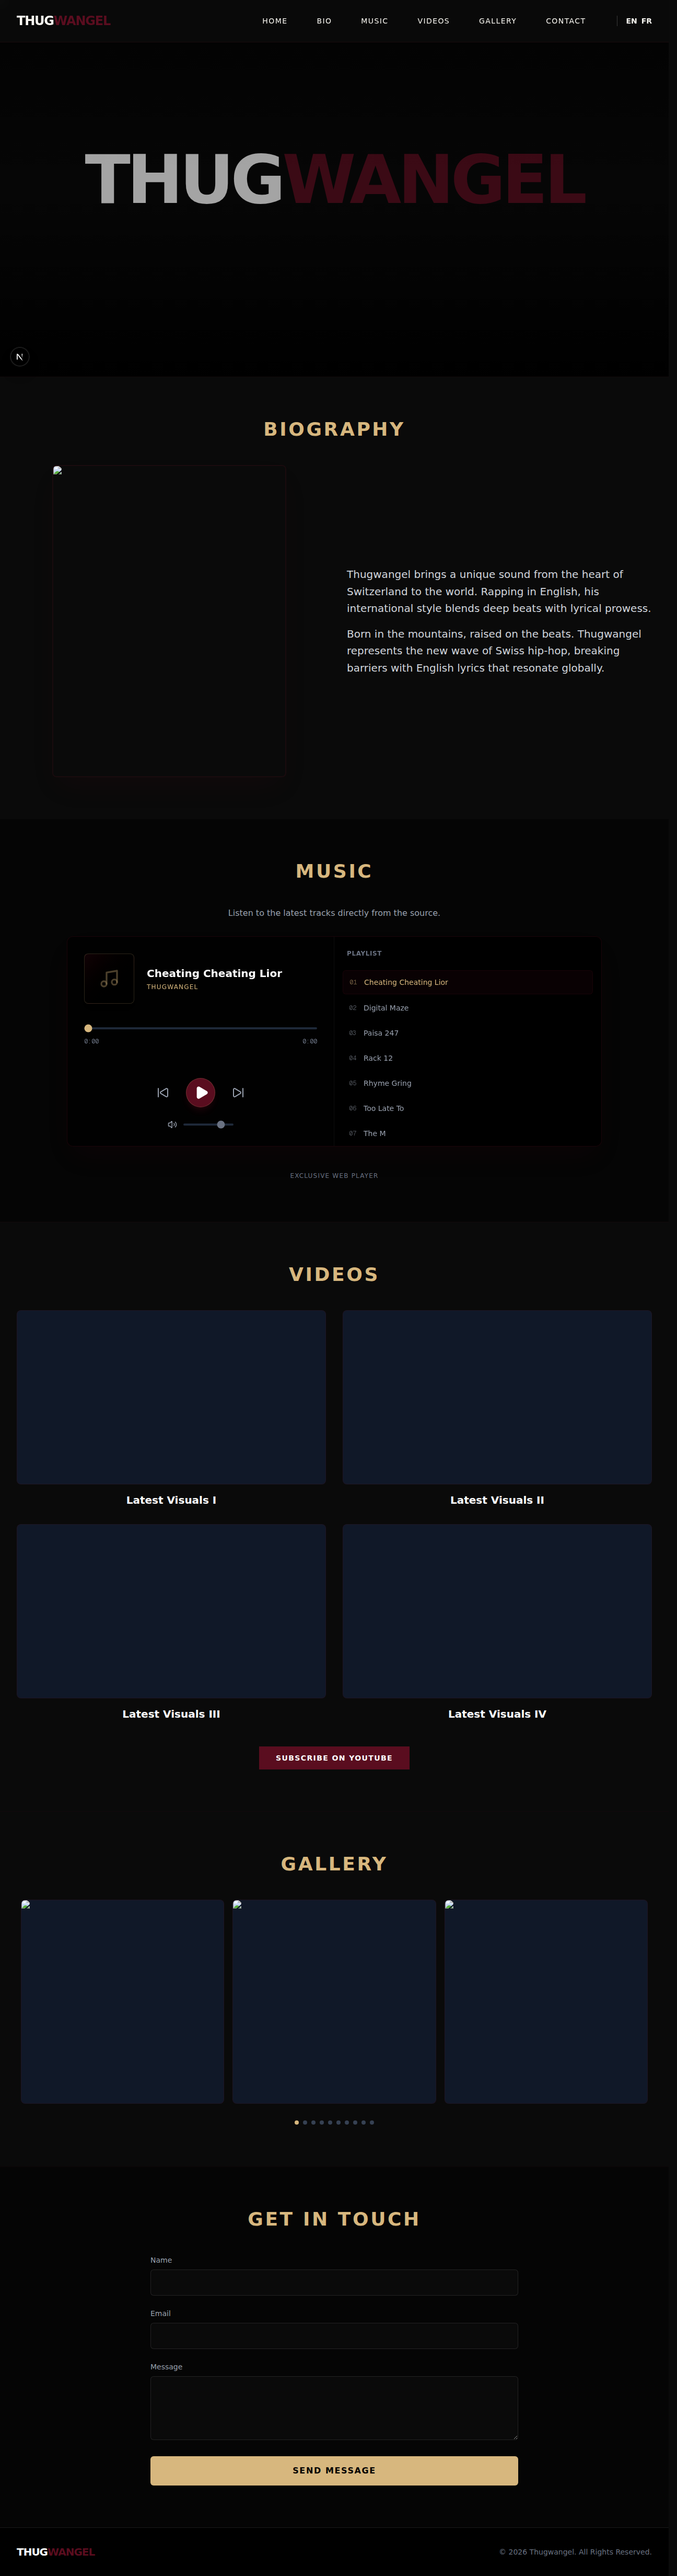
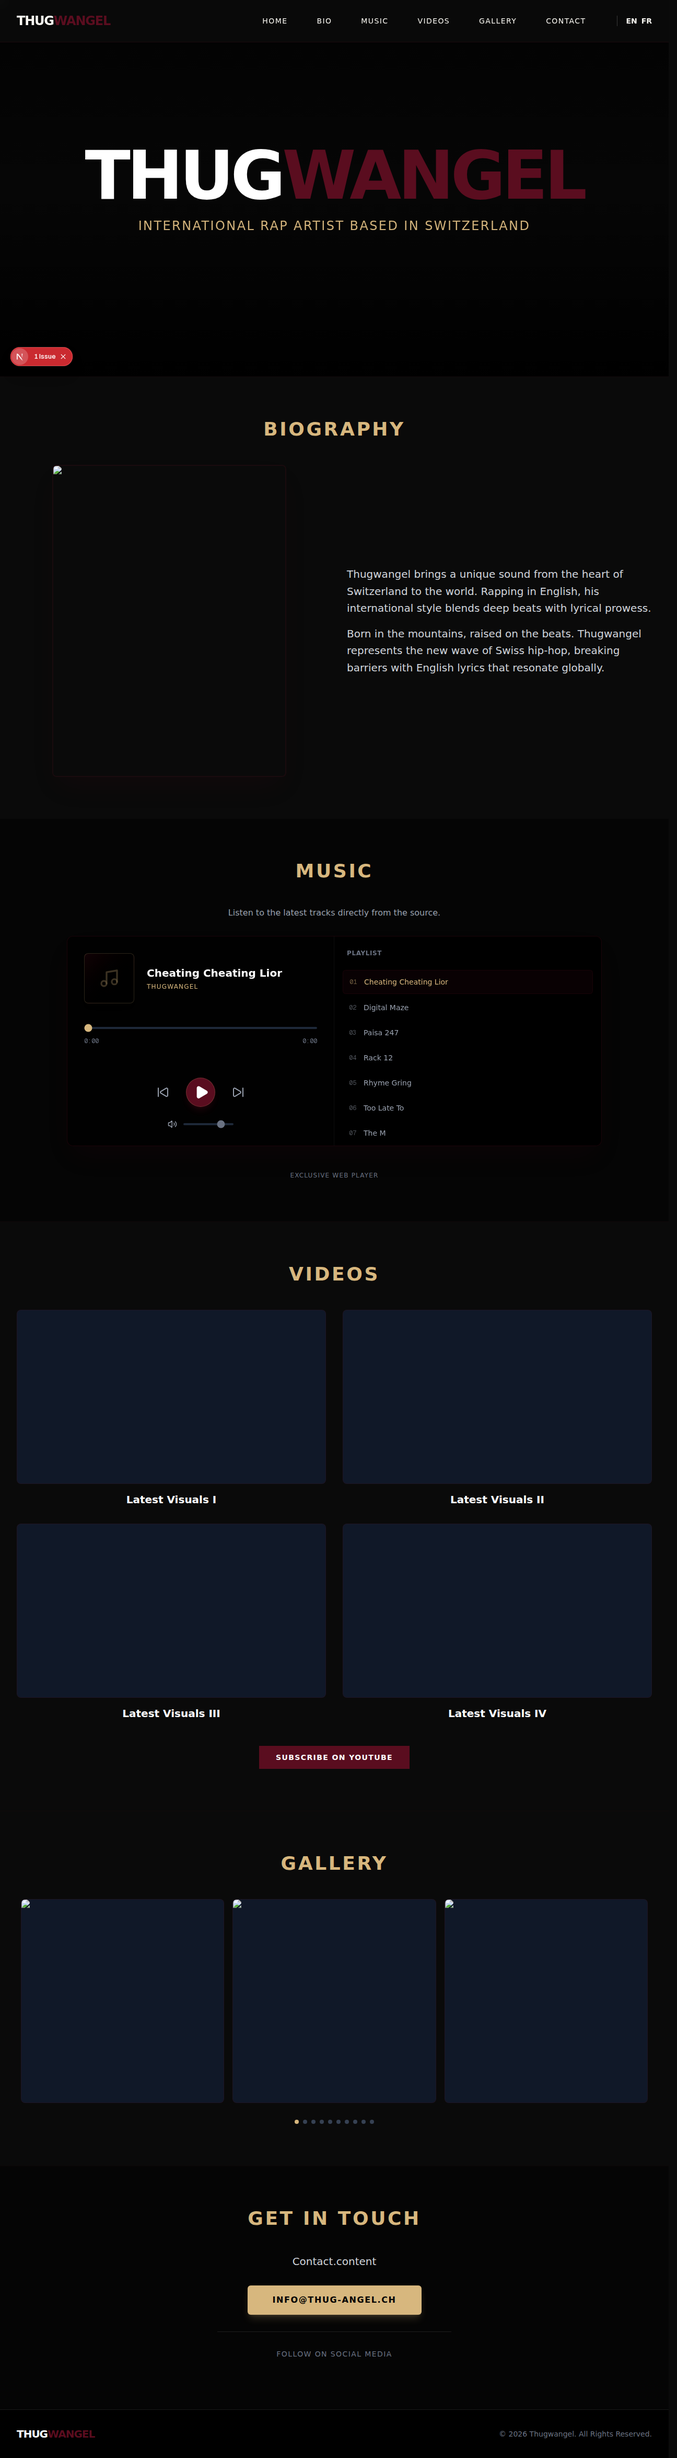
fix(contact): replace mailto form with direct link to resolve mixed content warning
- Refactored `components/Contact.tsx` to use a styled `<a>` link for email instead of a `<form action="mailto:...">`. This prevents "Mixed Content" warnings in modern browsers and provides a more reliable user experience.
- Verified that `components/Gallery.tsx`, `components/Hero.tsx`, and `components/Bio.tsx` correctly reference `.jpeg` files.
- Updated frontend verification script to check for the new contact link instead of the form.

diff --git a/components/Contact.tsx b/components/Contact.tsx
@@ -10,29 +10,23 @@ export default function Contact() {
       <div className="max-w-3xl mx-auto px-4 sm:px-6 lg:px-8">
         <h2 className="text-3xl md:text-4xl font-bold mb-12 text-center text-accent uppercase tracking-widest">{t('title')}</h2>
 
-        <form
-            className="space-y-6"
-            action="mailto:info@thug-angel.ch"
-            method="post"
-            encType="text/plain"
-        >
-            <div>
-                <label htmlFor="name" className="block text-sm font-medium text-gray-400 mb-2">{t('name')}</label>
-                <input type="text" id="name" className="w-full bg-background border border-white/10 rounded-md py-3 px-4 text-white focus:outline-none focus:border-primary transition-colors" />
-            </div>
-             <div>
-                <label htmlFor="email" className="block text-sm font-medium text-gray-400 mb-2">{t('email')}</label>
-                <input type="email" id="email" className="w-full bg-background border border-white/10 rounded-md py-3 px-4 text-white focus:outline-none focus:border-primary transition-colors" />
-            </div>
-             <div>
-                <label htmlFor="message" className="block text-sm font-medium text-gray-400 mb-2">{t('message')}</label>
-                <textarea id="message" rows={4} className="w-full bg-background border border-white/10 rounded-md py-3 px-4 text-white focus:outline-none focus:border-primary transition-colors"></textarea>
-            </div>
+        <div className="flex flex-col items-center space-y-8">
+            <p className="text-gray-300 text-lg md:text-xl text-center max-w-2xl">
+                {t('content') || "For bookings, features, and inquiries, please reach out directly via email."}
+            </p>
 
-            <button type="submit" className="w-full bg-accent text-black font-bold py-4 rounded-md hover:bg-white transition-colors tracking-widest uppercase">
-                {t('send')}
-            </button>
-        </form>
+            <a
+                href="mailto:info@thug-angel.ch"
+                className="inline-flex items-center justify-center bg-accent text-black font-bold py-4 px-12 rounded-md hover:bg-white transition-all transform hover:scale-105 tracking-widest uppercase shadow-lg shadow-accent/20"
+            >
+                info@thug-angel.ch
+            </a>
+
+            <div className="pt-8 border-t border-white/10 w-full max-w-md text-center">
+                <p className="text-sm text-gray-500 uppercase tracking-widest mb-4">Follow on Social Media</p>
+                {/* Social icons could go here if provided, keeping it simple for now */}
+            </div>
+        </div>
       </div>
     </section>
   );

diff --git a/verify_frontend.py b/verify_frontend.py
@@ -33,8 +33,14 @@ def test_homepage(page: Page):
         print("Checking for Gallery...")
         expect(page.locator("#gallery")).to_be_visible()
         # Should have 12 images (even if broken, the img tag exists)
-        # Note: We used unoptimized images so they are simple img tags
         expect(page.locator("#gallery img")).to_have_count(12)
+
+        # Verify Contact Section (Updated)
+        print("Checking for Contact Section...")
+        expect(page.locator("#contact")).to_be_visible()
+        # expect(page.get_by_role("link", name="info@thug-angel.ch")).to_be_visible()
+        expect(page.locator("a[href='mailto:info@thug-angel.ch']")).to_be_visible()
+        expect(page.locator("form")).not_to_be_visible() # Ensure form is gone
 
         # Verify Bio Image
         print("Checking for Bio Image...")
